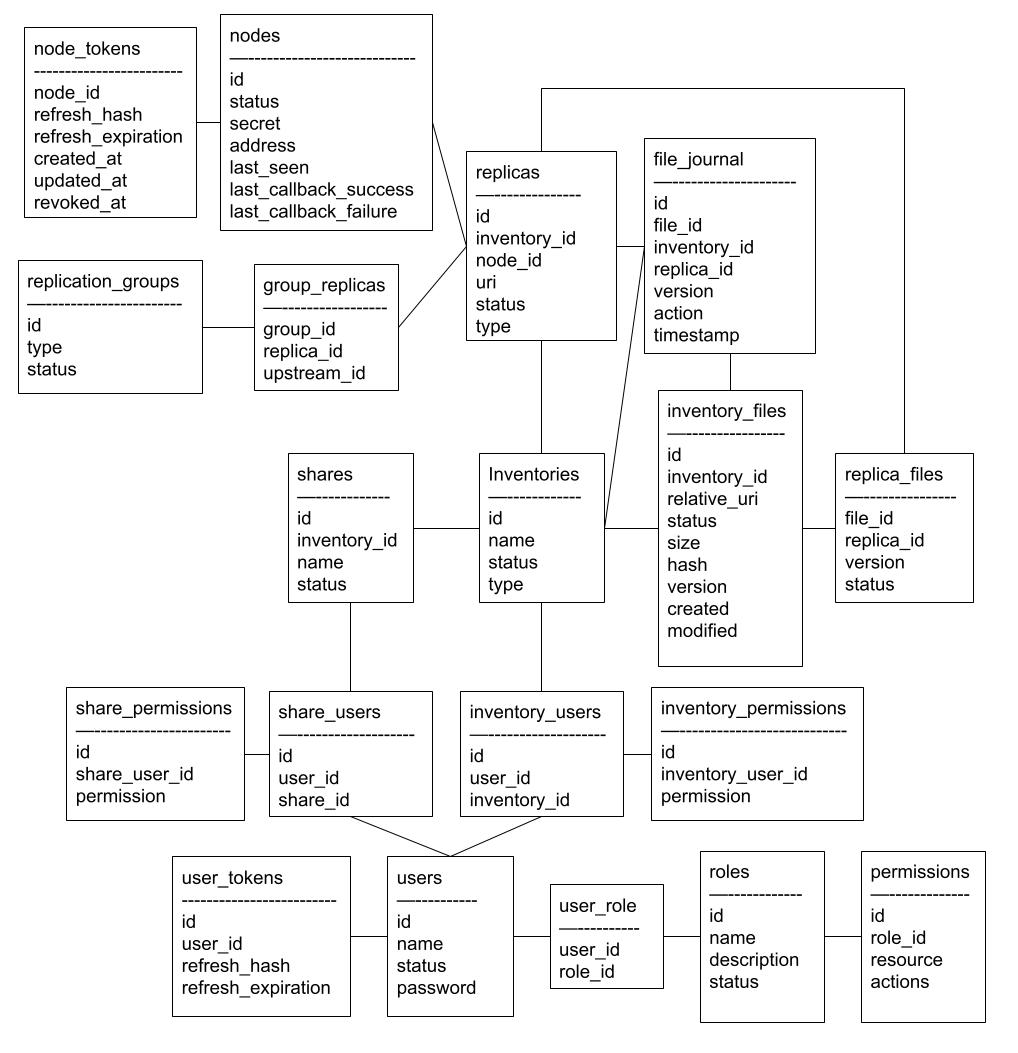
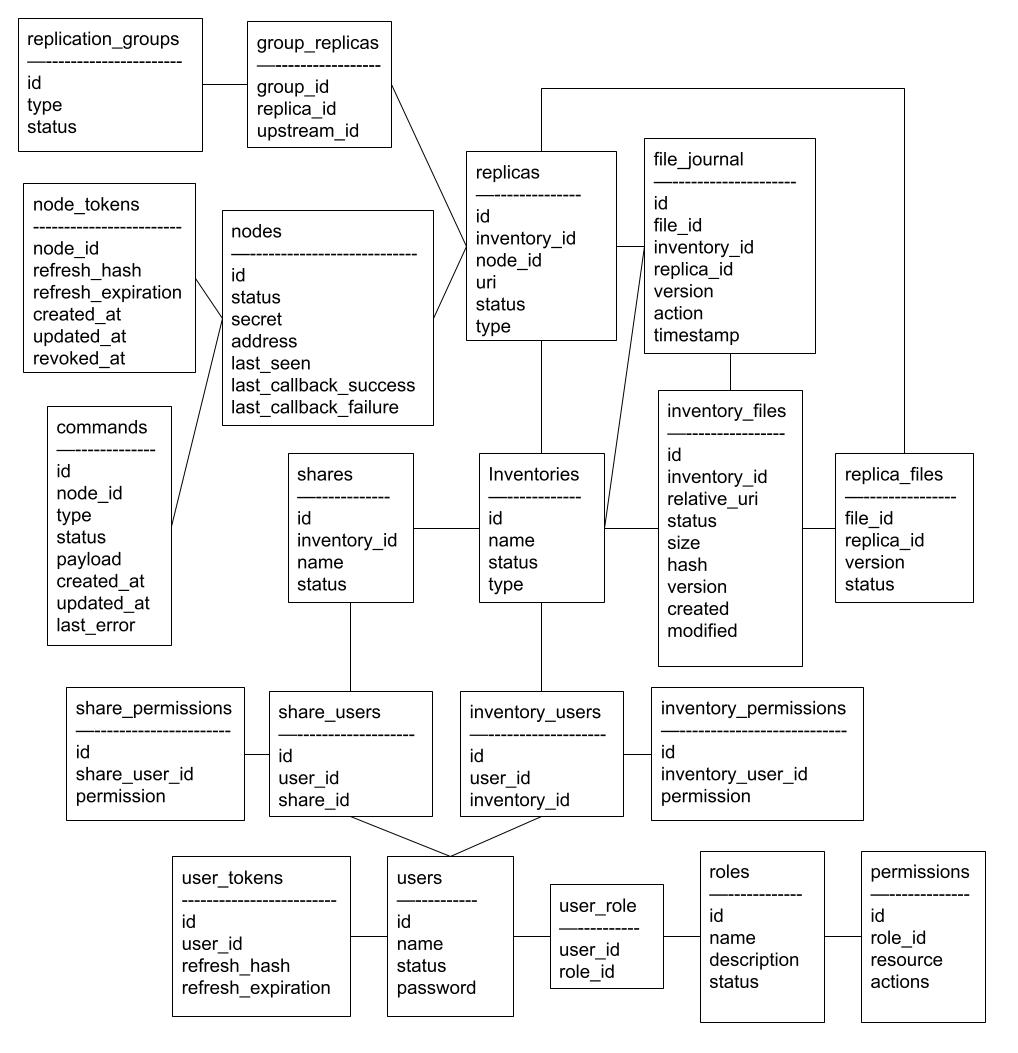
command table and api

Changed region(s): [[0.0, 0.0304, 0.4568, 0.3951], [0.0609, 0.3951, 0.1523, 0.6078], [0.4263, 0.2431, 0.4568, 0.2735]]

diff --git a/internal/model/models.go b/internal/model/models.go
@@ -49,16 +49,16 @@ func (FileJournal) TableName() string {
 }
 
 type Node struct {
-	ID                  string        `gorm:"primaryKey;size:255" json:"id"`
-	Status              NodeStatus    `gorm:"size:32;not null" json:"status"`
-	Secret              string        `gorm:"size:255;not null" json:"-"`
-	Address             string        `gorm:"size:2048" json:"address"`
-	LastSeen            *time.Time    `json:"last_seen"`
-	LastCallbackSuccess *time.Time    `json:"last_callback_success"`
-	LastCallbackFailure *time.Time    `json:"last_callback_failure"`
-	Token               *NodeToken    `gorm:"foreignKey:NodeID;references:ID" json:"token,omitempty"`
-	Commands            []NodeCommand `gorm:"foreignKey:NodeID;references:ID" json:"commands,omitempty"`
-	Replicas            []Replica     `gorm:"foreignKey:NodeID;references:ID" json:"replicas,omitempty"`
+	ID                  string     `gorm:"primaryKey;size:255" json:"id"`
+	Status              NodeStatus `gorm:"size:32;not null" json:"status"`
+	Secret              string     `gorm:"size:255;not null" json:"-"`
+	Address             string     `gorm:"size:2048" json:"address"`
+	LastSeen            *time.Time `json:"last_seen"`
+	LastCallbackSuccess *time.Time `json:"last_callback_success"`
+	LastCallbackFailure *time.Time `json:"last_callback_failure"`
+	Token               *NodeToken `gorm:"foreignKey:NodeID;references:ID" json:"token,omitempty"`
+	Commands            []Command  `gorm:"foreignKey:NodeID;references:ID" json:"commands,omitempty"`
+	Replicas            []Replica  `gorm:"foreignKey:NodeID;references:ID" json:"replicas,omitempty"`
 }
 
 func (Node) TableName() string {
@@ -79,20 +79,20 @@ func (NodeToken) TableName() string {
 	return "node_tokens"
 }
 
-type NodeCommand struct {
-	ID        uint              `gorm:"primaryKey" json:"id"`
-	NodeID    string            `gorm:"size:255;index;not null" json:"node_id"`
-	Type      NodeCommandType   `gorm:"size:64;not null" json:"type"`
-	Status    NodeCommandStatus `gorm:"size:32;not null;index" json:"status"`
-	Payload   json.RawMessage   `gorm:"type:json" json:"payload"`
-	CreatedAt time.Time         `json:"created_at"`
-	UpdatedAt time.Time         `json:"updated_at"`
-	LastError *string           `gorm:"size:2048" json:"last_error,omitempty"`
-	Node      Node              `gorm:"foreignKey:NodeID;references:ID;constraint:OnUpdate:CASCADE,OnDelete:CASCADE;" json:"-"`
+type Command struct {
+	ID        uint            `gorm:"primaryKey" json:"id"`
+	NodeID    string          `gorm:"size:255;index;not null" json:"node_id"`
+	Type      CommandType     `gorm:"size:64;not null" json:"type"`
+	Status    CommandStatus   `gorm:"size:32;not null;index" json:"status"`
+	Payload   json.RawMessage `gorm:"type:json" json:"payload"`
+	CreatedAt time.Time       `json:"created_at"`
+	UpdatedAt time.Time       `json:"updated_at"`
+	LastError *string         `gorm:"size:2048" json:"last_error,omitempty"`
+	Node      Node            `gorm:"foreignKey:NodeID;references:ID;constraint:OnUpdate:CASCADE,OnDelete:CASCADE;" json:"-"`
 }
 
-func (NodeCommand) TableName() string {
-	return "node_commands"
+func (Command) TableName() string {
+	return "commands"
 }
 
 type Replica struct {
@@ -271,7 +271,7 @@ func AllModels() []any {
 		&FileJournal{},
 		&Node{},
 		&NodeToken{},
-		&NodeCommand{},
+		&Command{},
 		&Replica{},
 		&ReplicaFile{},
 		&ReplicationGroup{},

diff --git a/internal/model/status.go b/internal/model/status.go
@@ -13,8 +13,8 @@ type ShareStatus string
 type UserStatus string
 type RoleStatus string
 type NodeStatus string
-type NodeCommandStatus string
-type NodeCommandType string
+type CommandStatus string
+type CommandType string
 type PermissionResource string
 type PermissionAction string
 
@@ -94,16 +94,16 @@ const (
 )
 
 const (
-	NodeCommandStatusPending   NodeCommandStatus = "pending"
-	NodeCommandStatusCompleted NodeCommandStatus = "completed"
-	NodeCommandStatusFailed    NodeCommandStatus = "failed"
-	NodeCommandStatusCanceled  NodeCommandStatus = "canceled"
+	NodeCommandStatusPending   CommandStatus = "pending"
+	NodeCommandStatusCompleted CommandStatus = "completed"
+	NodeCommandStatusFailed    CommandStatus = "failed"
+	NodeCommandStatusCanceled  CommandStatus = "canceled"
 )
 
 const (
-	NodeCommandTypeReconcileReplica NodeCommandType = "reconcile_replica"
-	NodeCommandTypeScanReplica      NodeCommandType = "scan_replica"
-	NodeCommandTypeRefreshState     NodeCommandType = "refresh_state"
+	NodeCommandTypeReconcileReplica CommandType = "reconcile_replica"
+	NodeCommandTypeScanReplica      CommandType = "scan_replica"
+	NodeCommandTypeRefreshState     CommandType = "refresh_state"
 )
 
 const (
@@ -237,7 +237,7 @@ func (s NodeStatus) Valid() bool {
 	}
 }
 
-func (s NodeCommandStatus) Valid() bool {
+func (s CommandStatus) Valid() bool {
 	switch s {
 	case NodeCommandStatusPending, NodeCommandStatusCompleted, NodeCommandStatusFailed, NodeCommandStatusCanceled:
 		return true
@@ -246,7 +246,7 @@ func (s NodeCommandStatus) Valid() bool {
 	}
 }
 
-func (t NodeCommandType) Valid() bool {
+func (t CommandType) Valid() bool {
 	switch t {
 	case NodeCommandTypeReconcileReplica, NodeCommandTypeScanReplica, NodeCommandTypeRefreshState:
 		return true

diff --git a/internal/service/node_service.go b/internal/service/node_service.go
@@ -58,10 +58,10 @@ type UpdateNodeInput struct {
 
 type NodeService struct {
 	nodes    *repository.NodeRepository
-	commands *repository.NodeCommandRepository
+	commands *repository.CommandRepository
 }
 
-func NewNodeService(nodes *repository.NodeRepository, commands *repository.NodeCommandRepository) *NodeService {
+func NewNodeService(nodes *repository.NodeRepository, commands *repository.CommandRepository) *NodeService {
 	return &NodeService{nodes: nodes, commands: commands}
 }
 
@@ -241,7 +241,7 @@ func timePtr(value *time.Time) *string {
 	return &formatted
 }
 
-func toNodeCommands(commands []model.NodeCommand) []NodeCommand {
+func toNodeCommands(commands []model.Command) []NodeCommand {
 	if len(commands) == 0 {
 		return []NodeCommand{}
 	}
@@ -253,7 +253,7 @@ func toNodeCommands(commands []model.NodeCommand) []NodeCommand {
 	return result
 }
 
-func toNodeCommand(command *model.NodeCommand) *NodeCommand {
+func toNodeCommand(command *model.Command) *NodeCommand {
 	return &NodeCommand{
 		ID:        command.ID,
 		NodeID:    command.NodeID,

diff --git a/internal/service/node_service_test.go b/internal/service/node_service_test.go
@@ -164,7 +164,7 @@ func TestNodeServiceReportAvailabilityIncludesPendingCommands(t *testing.T) {
 	}).Error; err != nil {
 		t.Fatalf("Create(node) error = %v", err)
 	}
-	if err := database.Create(&model.NodeCommand{
+	if err := database.Create(&model.Command{
 		NodeID:  "node-a",
 		Type:    model.NodeCommandTypeRefreshState,
 		Status:  model.NodeCommandStatusPending,
@@ -172,7 +172,7 @@ func TestNodeServiceReportAvailabilityIncludesPendingCommands(t *testing.T) {
 	}).Error; err != nil {
 		t.Fatalf("Create(pending command) error = %v", err)
 	}
-	if err := database.Create(&model.NodeCommand{
+	if err := database.Create(&model.Command{
 		NodeID:  "node-a",
 		Type:    model.NodeCommandTypeScanReplica,
 		Status:  model.NodeCommandStatusCompleted,
@@ -218,7 +218,7 @@ func TestNodeServiceCompleteCommandIsIdempotentAndScopedToNode(t *testing.T) {
 	if err := database.Create(&model.Node{ID: "node-b", Status: model.NodeStatusOffline, Secret: "ignored"}).Error; err != nil {
 		t.Fatalf("Create(node-b) error = %v", err)
 	}
-	command := &model.NodeCommand{
+	command := &model.Command{
 		NodeID:  "node-a",
 		Type:    model.NodeCommandTypeRefreshState,
 		Status:  model.NodeCommandStatusPending,

diff --git a/internal/model/status_test.go b/internal/model/status_test.go
@@ -43,10 +43,10 @@ func TestInvalidStatusesFailValidation(t *testing.T) {
 	if NodeStatus("invalid").Valid() {
 		t.Fatal("invalid node status should fail")
 	}
-	if NodeCommandStatus("invalid").Valid() {
+	if CommandStatus("invalid").Valid() {
 		t.Fatal("invalid node command status should fail")
 	}
-	if NodeCommandType("invalid").Valid() {
+	if CommandType("invalid").Valid() {
 		t.Fatal("invalid node command type should fail")
 	}
 	if PermissionResource("invalid").Valid() {

diff --git a/internal/router/node_auth_test.go b/internal/router/node_auth_test.go
@@ -295,7 +295,7 @@ func TestInternalNodesReportAvailabilityReturnsPendingCommands(t *testing.T) {
 	if err := database.Create(node).Error; err != nil {
 		t.Fatalf("Create(node) error = %v", err)
 	}
-	if err := database.Create(&model.NodeCommand{
+	if err := database.Create(&model.Command{
 		NodeID:  "node-a",
 		Type:    model.NodeCommandTypeRefreshState,
 		Status:  model.NodeCommandStatusPending,
@@ -368,7 +368,7 @@ func TestInternalCommandsCompleteMarksOwnedCommandCompleted(t *testing.T) {
 	}).Error; err != nil {
 		t.Fatalf("Create(node) error = %v", err)
 	}
-	command := &model.NodeCommand{
+	command := &model.Command{
 		NodeID:  "node-a",
 		Type:    model.NodeCommandTypeRefreshState,
 		Status:  model.NodeCommandStatusPending,

diff --git a/docs/application.md b/docs/application.md
@@ -265,7 +265,7 @@ id  name    type    status
 This says:  
 Inventory 1 exists as a logical dataset.  
 
-#### 3) Coordinator inserts default replicas
+#### 3) Coordinator creates default replica
 ```
 replicas
 id  inventory_id  node_id  uri           type        status
@@ -355,8 +355,78 @@ It is the source from which the initial inventory state is built.
 So the default replica starts as `synchronized`, and additional replicas added later start as `pending` 
 because they need to receive the already-known inventory files.  
 
-### File replication after update
-When multiple replicas exist, this is how replication works:  
+### Creating a new replica
+#### 1) Initial state
+```
+inventory_files
+file_id  version  status  modified  size  hash
+----------------------------------------------
+10       3        active  time      size  hash
+11       3        active  time      size  hash
+
+replicas
+id  inventory_id  node_id  uri           type        status
+------------------------------------------------------------
+A   1             node-1   /data/photos  filesystem  active
+
+replica_files
+file_id  replica_id  version  status
+------------------------------------------
+10       A           3        synchronized
+11       A           3        synchronized
+```
+#### 2) Coordinator create new replica
+```
+replicas
+id  inventory_id  node_id  uri                 type     status
+--------------------------------------------------------------
+B   1             node-2   s3://bucket/photos  storage  active
+```
+#### 3) Coordinator populates `replica_files` for the new replica
+```
+replica_files
+file_id  replica_id  version  status
+------------------------------------------
+10       A           3        synchronized
+11       A           3        synchronized
+10       B           0        pending
+11       B           0        pending
+```
+This says:  
+A replica is up to date.  
+B replica needs update.  
+
+#### 4) Replication worker finds pending target
+It queries:  
+`replica_files where status = pending`  
+Then compares:  
+`replica_files.version < inventory_files.version`  
+So it knows:  
+`copy file_id=10 version=3 to replica B`  
+`copy file_id=11 version=3 to replica B`  
+Source can be replica A, or any synchronized replica with version 3.
+
+#### 5) File data is transferred
+Storage service copies actual data:  
+replica A path -> replica B path
+
+Then verifies:  
+`hash == inventory_files.hash && size == inventory_files.size`
+
+#### 6) Coordinator marks replica B synchronized
+Final state after successful transfer:
+```
+replica_files
+file_id  replica_id  version  status
+------------------------------------------
+10       A           3        synchronized
+11       A           3        synchronized
+10       B           3        synchronized
+11       B           3        synchronized
+```
+
+### File replication between replicas
+When multiple replicas exist, this is what happens if you update file on one replica:  
 1. Detect local change on replica A
 2. Record authoritative logical change
 3. Mark other replicas as needing update